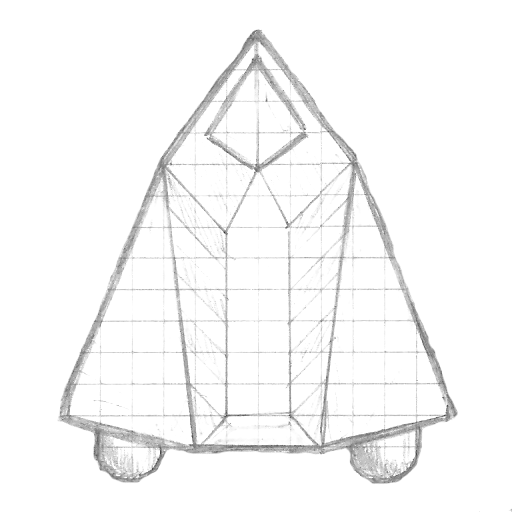
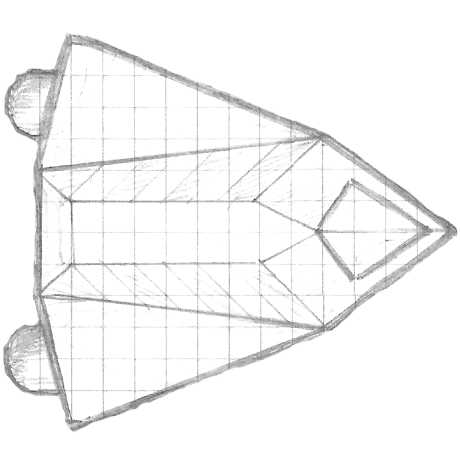
Add static scenery to display and simulation.
Fix calculation of rotation when drawing (jbox2d used rad,
slick uses deg).

diff --git a/src/org/skullforge/asteroidpush/arena/entities/Scenery.java b/src/org/skullforge/asteroidpush/arena/entities/Scenery.java
@@ -1,0 +1,79 @@
+package org.skullforge.asteroidpush.arena.entities;
+
+import java.util.Vector;
+
+import org.jbox2d.collision.shapes.PolygonShape;
+import org.jbox2d.common.Vec2;
+import org.jbox2d.dynamics.Body;
+import org.jbox2d.dynamics.BodyDef;
+import org.jbox2d.dynamics.BodyType;
+import org.jbox2d.dynamics.World;
+import org.newdawn.slick.geom.Polygon;
+import org.skullforge.asteroidpush.arena.Entity;
+import org.skullforge.asteroidpush.arena.Viewport;
+
+public class Scenery implements Entity {
+
+   public Scenery() {
+      body = null;
+      geometry = CreateGeometry();
+   }
+
+   @Override
+   public void spawn(World world, Vec2 position) {
+      body = world.createBody(GetBodyDef(position));
+      AddFixturesToBody();
+   }
+
+   @Override
+   public void render(Viewport view) {
+      if (body != null) {
+         for (Polygon poly : geometry) {
+            view.drawPolygon(poly);
+         }
+      }
+   }
+
+   @Override
+   public void update(int delta) {
+      // Does not do anything
+   }
+
+   private BodyDef GetBodyDef(Vec2 position) {
+      BodyDef def = new BodyDef();
+      def.position.set(position);
+      def.type = BodyType.STATIC;
+      return def;
+   }
+
+   private void AddFixturesToBody() {
+      for (Polygon poly : geometry) {
+         Vec2 vertices[] = new Vec2[poly.getPointCount()];
+         for (int i = 0; i < poly.getPointCount(); ++i) {
+            float point[] = poly.getPoint(i);
+            vertices[i] = new Vec2(point[0], point[1]);
+         }
+         PolygonShape shape = new PolygonShape();
+         shape.set(vertices, poly.getPointCount());
+         body.createFixture(shape, 0.0f);
+      }
+   }
+
+   private Vector<Polygon> CreateGeometry() {
+      Vector<Polygon> geo = new Vector<Polygon>();
+
+      Polygon poly = new Polygon();
+      poly.addPoint(-25.f, 10.0f);
+      poly.addPoint(25.f, 10.0f);
+      poly.addPoint(25.f, 11.0f);
+      poly.addPoint(-25.f, 11.0f);
+      poly.setClosed(true);
+
+      geo.add(poly);
+
+      return geo;
+   }
+
+   private Body body;
+   private Vector<Polygon> geometry;
+}

diff --git a/src/org/skullforge/asteroidpush/arena/StaticViewport.java b/src/org/skullforge/asteroidpush/arena/StaticViewport.java
@@ -1,34 +1,39 @@
 package org.skullforge.asteroidpush.arena;
 
+import org.jbox2d.common.MathUtils;
 import org.jbox2d.common.Vec2;
+import org.newdawn.slick.Color;
 import org.newdawn.slick.Graphics;
 import org.newdawn.slick.Image;
+import org.newdawn.slick.geom.Polygon;
 
 public class StaticViewport implements Viewport {
-  public StaticViewport() {
-  }
+   public StaticViewport() {
+   }
 
-  public void showImage(Image img,
-                        Vec2 origin,
-                        float rotation,
-                        Vec2 size) {
-    img.setCenterOfRotation(size.x/2.0f, size.y/2.0f);
-    img.setRotation(rotation);
-    graphicsPort.drawImage(img,
-                           origin.x,
-                           origin.y,
-                           origin.x + size.y,
-                           origin.y + size.y,
-                           0.0f,
-                           0.0f,
-                           img.getWidth(),
-                           img.getHeight());
-  }
+   public void showImage(Image img, Vec2 origin, float rotation, Vec2 size) {
+      img.setCenterOfRotation(size.x / 2.0f, size.y / 2.0f);
+      img.setRotation(MathUtils.RAD2DEG * rotation);
+      graphicsPort.drawImage(img,
+                             origin.x - size.x/2.0f,
+                             origin.y - size.y/2.0f,
+                             origin.x + size.x/2.0f,
+                             origin.y + size.y/2.0f,
+                             0.0f,
+                             0.0f,
+                             img.getWidth(),
+                             img.getHeight());
+   }
 
-  public void setGraphics(Graphics g) {
-    graphicsPort = g;
-    g.scale(25.0f, 25.0f);
-  }
-  
-  private Graphics graphicsPort;
+   public void setGraphics(Graphics g) {
+      graphicsPort = g;
+      g.scale(25.0f, 25.0f);
+   }
+
+   public void drawPolygon(Polygon poly) {
+      graphicsPort.setColor(Color.gray);
+      graphicsPort.draw(poly);
+   }
+
+   private Graphics graphicsPort;
 }

diff --git a/test/org/skullforge/asteroidpush/arena/StaticViewportTest.java b/test/org/skullforge/asteroidpush/arena/StaticViewportTest.java
@@ -1,5 +1,6 @@
 package org.skullforge.asteroidpush.arena;
 
+import org.jbox2d.common.MathUtils;
 import org.jbox2d.common.Vec2;
 import org.jmock.Expectations;
 import org.jmock.Mockery;
@@ -28,8 +29,9 @@ public class StaticViewportTest {
   @Test
   public void testMappingRectangleToDisplay() {
     final Vec2 origin = new Vec2(0.0f, 0.0f);
-    final float rotation = 0.0f;
+    final float expectedRotation = 90.0f;
     final Vec2 size = new Vec2(1.0f, 1.0f);
+    final float rotation = MathUtils.DEG2RAD * expectedRotation;
 
     context.checking(new Expectations() {
       {
@@ -38,13 +40,13 @@ public class StaticViewportTest {
         allowing(imageMock).getHeight();
         will(returnValue(50));
         oneOf (imageMock).setCenterOfRotation(size.x/2.0f, size.x/2.0f);
-        oneOf (imageMock).setRotation(rotation);
+        oneOf (imageMock).setRotation(expectedRotation);
         oneOf (graphicsMock).scale(25.0f, 25.0f);
         oneOf (graphicsMock).drawImage(imageMock,
-                                    0.0f,
-                                    0.0f,
-                                    1.0f,
-                                    1.0f,
+                                    -0.5f,
+                                    -0.5f,
+                                    0.5f,
+                                    0.5f,
                                     0.0f,
                                     0.0f,
                                     50.0f,

diff --git a/src/org/skullforge/asteroidpush/arena/BasicEntityFactory.java b/src/org/skullforge/asteroidpush/arena/BasicEntityFactory.java
@@ -2,13 +2,19 @@ package org.skullforge.asteroidpush.arena;
 
 import org.newdawn.slick.Image;
 import org.newdawn.slick.SlickException;
+import org.skullforge.asteroidpush.arena.entities.Scenery;
 import org.skullforge.asteroidpush.arena.entities.Vessel;
 
 public class BasicEntityFactory implements EntityFactory {
 
-  @Override
-  public Entity createVessel() throws SlickException {
-    return new Vessel(new Image("shuttle.png"));
-  }
+   @Override
+   public Entity createVessel() throws SlickException {
+      return new Vessel(new Image("shuttle.png"));
+   }
+
+   @Override
+   public Entity createScenery() throws SlickException {
+      return new Scenery();
+   }
 
 }

diff --git a/test/org/skullforge/asteroidpush/arena/BasicArenaTest.java b/test/org/skullforge/asteroidpush/arena/BasicArenaTest.java
@@ -37,12 +37,16 @@ public class BasicArenaTest {
    @Test
    public void testInit() throws Exception {
       final Vec2 pos = new Vec2(3.0f, 3.0f);
+      final Vec2 sceneryPos = new Vec2(0.0f, 0.0f);
       
       context.checking(new Expectations() {
          {
             oneOf(factoryMock).createVessel();
             will(returnValue(objectMock1));
+            oneOf(factoryMock).createScenery();
+            will(returnValue(objectMock2));
             oneOf(objectMock1).spawn(with(any(World.class)), with(equal(pos)));
+            oneOf(objectMock2).spawn(with(any(World.class)), with(equal(sceneryPos)));
          }
       });
 

diff --git a/src/org/skullforge/asteroidpush/arena/entities/Vessel.java b/src/org/skullforge/asteroidpush/arena/entities/Vessel.java
@@ -7,6 +7,7 @@ import org.jbox2d.dynamics.BodyDef;
 import org.jbox2d.dynamics.BodyType;
 import org.jbox2d.dynamics.FixtureDef;
 import org.jbox2d.dynamics.World;
+import org.jbox2d.common.MathUtils;
 import org.newdawn.slick.Image;
 import org.newdawn.slick.SlickException;
 import org.skullforge.asteroidpush.arena.Entity;
@@ -44,6 +45,7 @@ public class Vessel implements Entity {
       BodyDef def = new BodyDef();
       def.type = BodyType.DYNAMIC;
       def.position.set(position);
+      def.angle = MathUtils.PI * -0.7f;
       return def;
    }
 

diff --git a/src/org/skullforge/asteroidpush/arena/Viewport.java b/src/org/skullforge/asteroidpush/arena/Viewport.java
@@ -3,8 +3,10 @@ package org.skullforge.asteroidpush.arena;
 import org.jbox2d.common.Vec2;
 import org.newdawn.slick.Graphics;
 import org.newdawn.slick.Image;
+import org.newdawn.slick.geom.Polygon;
 
 public interface Viewport {
   void setGraphics(Graphics g);
   void showImage(Image img, Vec2 origin, float rotation, Vec2 size);
+  void drawPolygon(Polygon poly);
 }

diff --git a/src/org/skullforge/asteroidpush/arena/BasicArena.java b/src/org/skullforge/asteroidpush/arena/BasicArena.java
@@ -23,6 +23,7 @@ public class BasicArena implements Arena {
 
    public void init() throws SlickException {
       addObject(objectFactory.createVessel(), new Vec2(3.0f, 3.0f));
+      addObject(objectFactory.createScenery(), new Vec2(0.0f, 0.0f));
       setViewport(new StaticViewport());
    }
 

diff --git a/src/org/skullforge/asteroidpush/arena/EntityFactory.java b/src/org/skullforge/asteroidpush/arena/EntityFactory.java
@@ -4,4 +4,5 @@ import org.newdawn.slick.SlickException;
 
 public interface EntityFactory {
   Entity createVessel() throws SlickException;
+  Entity createScenery() throws SlickException;
 }
